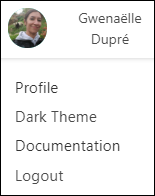
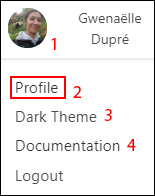
fix getting started artist

diff --git a/docs/getting-started-artist/README.md b/docs/getting-started-artist/README.md
@@ -7,8 +7,8 @@ On your first connection, we encourage you to fill your contact information
 into your profile.
 Click on your name on the top right of the screen (1) then on **Profile** (2).
 
-NB: A link to this **Documentation** is available (4) in this menu 
-and you can switch to the **Dark Theme** too (3).
+NB: A link to this **Documentation** is available (4) 
+and you can switch to the **Dark Theme**  in this menu too (3).
  
 ![User profile](../img/getting-started/user_profil.png)
  
@@ -73,7 +73,7 @@ using the **edit** button
 You can ask for a review by switching the status of a task to 
 (**Waiting for Approval** ![wfa](../img/getting-started/wfa_icon.png)). 
 The first step is to change the status of your
-task and post a comment. 
+task. 
 
 ![Waiting for approval](../img/getting-started/wfa_status.png)
 
@@ -83,7 +83,7 @@ Then click on the **Attach preview** button.
 
 You can either drag and drop you pic or video on the **Choose a file** button,
 or navigate through your system and pick your file, validate with the
-**Confirm** button.
+**Confirm** button. And then use the **Post comment** button.
 
 Your work will appear on the right part of the screen as a V1. 
 
